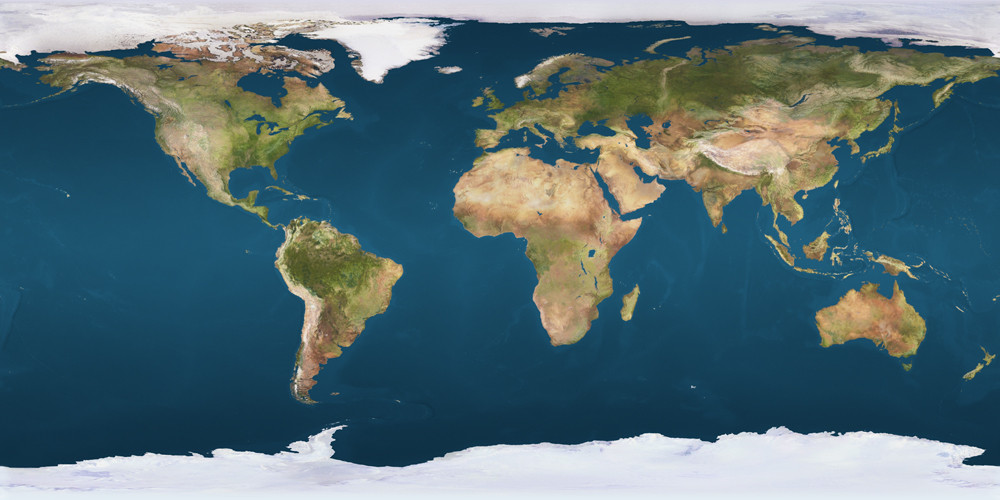
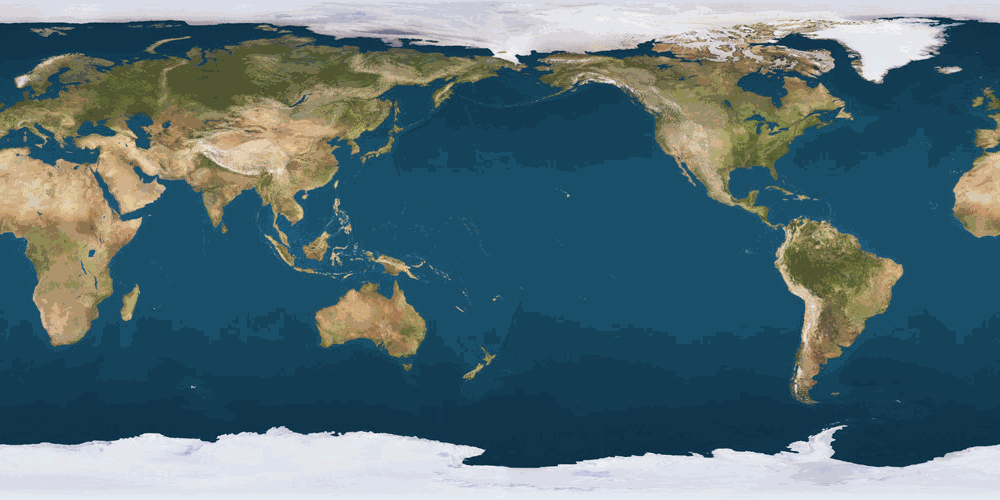
Shifted earth pngs to start at longitude 0. Add planet rendering of meridians. Added base model for orbits.

diff --git a/source/orbit-determination/src/app/display/planetRenderer.ts b/source/orbit-determination/src/app/display/planetRenderer.ts
@@ -1,6 +1,6 @@
 import { Planet } from '../models/planet.model'
 import * as THREE from 'three';
-import { Color } from 'three';
+import { Color, Vector3 } from 'three';
 import { DisplayProperties } from './displayProperties';
 
 export class PlanetRenderer {
@@ -8,11 +8,13 @@ export class PlanetRenderer {
 
     public color: Color;
 
-    private mesh1:THREE.Mesh = null;
-    private mesh2:THREE.Mesh = null;
+    private mesh:THREE.Mesh = null;
+    private meridians:THREE.Line = null;
+
     private precision:number = 24;
     private clock = new THREE.Clock();
     private globals:DisplayProperties;
+
 
     constructor(globals:DisplayProperties) {
         this.globals = globals;
@@ -21,26 +23,29 @@ export class PlanetRenderer {
 
 
         let geometry = new THREE.SphereGeometry(this.planet.radius, this.precision, this.precision);
-        //let material1 = new THREE.MeshBasicMaterial({color: this.color, wireframe: false});
-        let material1 = new THREE.MeshPhongMaterial();
-        material1.map = THREE.ImageUtils.loadTexture('assets/Planets/'+ this.planet.name +'.png');
-        material1.bumpMap = THREE.ImageUtils.loadTexture('assets/Planets/'+ this.planet.name +'_Bump.png');
-        material1.bumpScale = 10;
 
-        material1.specularMap = THREE.ImageUtils.loadTexture('assets/Planets/'+ this.planet.name +'_Specular.png');
-        material1.specular = new THREE.Color(0x222222);
+        let material = new THREE.MeshPhongMaterial();
+        material.map = THREE.ImageUtils.loadTexture('assets/Planets/'+ this.planet.name +'.png');
+        material.bumpMap = THREE.ImageUtils.loadTexture('assets/Planets/'+ this.planet.name +'_Bump.png');
+        material.bumpScale = 10;
 
-        this.mesh1 = new THREE.Mesh(geometry, material1);
-        this.mesh1.rotateZ(this.planet.tilt);
+        material.specularMap = THREE.ImageUtils.loadTexture('assets/Planets/'+ this.planet.name +'_Specular.png');
+        material.specular = new THREE.Color(0x222222);
 
-        let material2 = new THREE.MeshBasicMaterial({color: 0x880000, wireframe: true});
-        this.mesh2 = new THREE.Mesh(geometry, material2);
-        this.mesh2.rotateZ(this.planet.tilt);
+        material.polygonOffset = true;
+        material.polygonOffsetFactor = 1;
+        material.polygonOffsetUnits = 1;
+
+        this.mesh = new THREE.Mesh(geometry, material);
+        this.mesh.rotateX(this.planet.tilt);
+
+
+        this.createMeridians();
+        
     }
 
     addToScene(scene:THREE.Scene) {
-        scene.add(this.mesh1);
-        scene.add(this.mesh2);
+        scene.add(this.mesh);
     }
 
     update() {
@@ -49,7 +54,82 @@ export class PlanetRenderer {
         // rotate the planet
         let rotational_speed = (Math.PI*2*deltaTime*this.globals.time_step)/this.planet.spin_rate;
 
-        this.mesh1.rotateY(rotational_speed);
-        this.mesh2.rotateY(rotational_speed);
+        this.mesh.rotateY(rotational_speed);
+        this.meridians.rotateY(rotational_speed);
+    }
+
+    /*
+        Returns a vector3 that points in the direction of the longitude referenced by degrees_east
+    */
+    pointToLongitude(degrees_east:number) {
+        let radians = (degrees_east * (2*Math.PI)) / 360;
+        console.log(radians);
+        
+        // Vector that points to the 0 degrees east longitude
+        let ret = new THREE.Vector3(-1,0,0);
+
+        ret = ret.applyAxisAngle(new Vector3(0,1,0), radians);
+        ret.applyQuaternion(this.mesh.quaternion);
+
+        return ret;
+    }
+
+    private createMeridians() {
+        let geometry = new THREE.Geometry();
+
+        let matLine = new THREE.LineBasicMaterial( {
+            color: 0xff0000
+        } );
+    
+        let attitude = this.planet.radius + 100;
+        let precision = 15;
+
+        // Latitudes at 15 degree increments
+        for(let lat = precision; lat <= 180; lat+=precision) {
+            let lat_angle = (lat * (Math.PI * 2)) / 360;
+            let radius = attitude * Math.sin(lat_angle);
+            let height = attitude * Math.cos(lat_angle);
+            let prev_lat_angle = ((lat - precision) * (Math.PI * 2)) / 360;
+            let prev_radius = attitude * Math.sin(prev_lat_angle);
+            let prev_height = attitude * Math.cos(prev_lat_angle);
+            let x = 0;
+            let z = 0;
+
+            // Create longitudes
+            for (let long = 0; long < 360; long+=precision) {
+                let angle = (long * (Math.PI * 2)) / 360;
+                let next_angle = ((long + precision) * (Math.PI * 2)) / 360;
+    
+                // Add previous rings, current long
+                x = -prev_radius * Math.cos(angle);
+                z = prev_radius * Math.sin(angle);
+                geometry.vertices.push(new THREE.Vector3(x,prev_height,z));  
+
+                // Add previous rings, next long
+                x = -prev_radius * Math.cos(next_angle);
+                z = prev_radius * Math.sin(next_angle);
+                geometry.vertices.push(new THREE.Vector3(x,prev_height,z));  
+
+                // Add cuurrent rings, next long
+                x = -radius * Math.cos(next_angle);
+                z = radius * Math.sin(next_angle);
+                geometry.vertices.push(new THREE.Vector3(x,height,z));  
+            }
+        }
+        
+
+        this.meridians = new THREE.Line(geometry, matLine);
+        this.meridians.rotateX(this.planet.tilt);
+    }
+
+    toggle:boolean = false;
+    toggleMeridians(scene:THREE.Scene) {
+        if (this.toggle == false) {
+            scene.add(this.meridians);
+        } else {
+            scene.remove(this.meridians);
+        }
+
+        this.toggle = !this.toggle;
     }
 }

diff --git a/source/orbit-determination/src/app/display/display.component.ts b/source/orbit-determination/src/app/display/display.component.ts
@@ -37,13 +37,13 @@ export class DisplayComponent {
 
     this.controls.enablePan = false;
     this.controls.screenSpacePanning = false;
-    this.controls.minDistance = 15;
+    this.controls.minDistance = 10000;
     this.controls.maxDistance = 50000;
     
     this.earth = new PlanetRenderer(this.globals);
     this.earth.addToScene(this.scene);
 
-    let ambiantLight = new THREE.AmbientLight( 0x202020 ); // soft white light
+    let ambiantLight = new THREE.AmbientLight( 0x707070 ); // soft white light
     this.scene.add(ambiantLight);
 
     let sun = new THREE.PointLight(0xffffff, 1);
@@ -85,7 +85,25 @@ export class DisplayComponent {
   }
 
   onMouseDown(e) {
-    this.mouseDown = true;
+    // Create a line pointing out of the origin
+    /*let matLine = new THREE.LineBasicMaterial( {
+
+        color: 0x0ff000,
+        linewidth: 500
+
+    } );
+
+    let line:THREE.Line;
+    let line_geometry = new THREE.Geometry();
+    line_geometry.vertices.push(new THREE.Vector3(0,0,0));
+    console.log(this.earth.pointToLongitude(90));
+    line_geometry.vertices.push(this.earth.pointToLongitude(90).setLength(7000));
+
+    line = new THREE.Line(line_geometry, matLine);
+
+    this.scene.add(line);*/
+
+    this.earth.toggleMeridians(this.scene);
   }
   
   onMouseMove(e) {

diff --git a/source/orbit-determination/src/app/models/orbit.model.ts b/source/orbit-determination/src/app/models/orbit.model.ts
@@ -1,0 +1,12 @@
+export class Orbit {
+    // Epoch of the orbit measured in UT seconds
+    public epoch:number;
+
+    // Keplarian orbital elements
+    public inclination:number;
+    public raan:number;
+    public eccentricity:number;
+    public argument_perigee:number;
+    public mean_anomaly:number;
+    public mean_motion:number;
+}

diff --git a/source/orbit-determination/src/app/models/orbit.model.spec.ts b/source/orbit-determination/src/app/models/orbit.model.spec.ts
@@ -1,0 +1,7 @@
+import { Orbit } from './orbit.model';
+
+describe('Orbit', () => {
+  it('should create an instance', () => {
+    expect(new Orbit()).toBeTruthy();
+  });
+});
